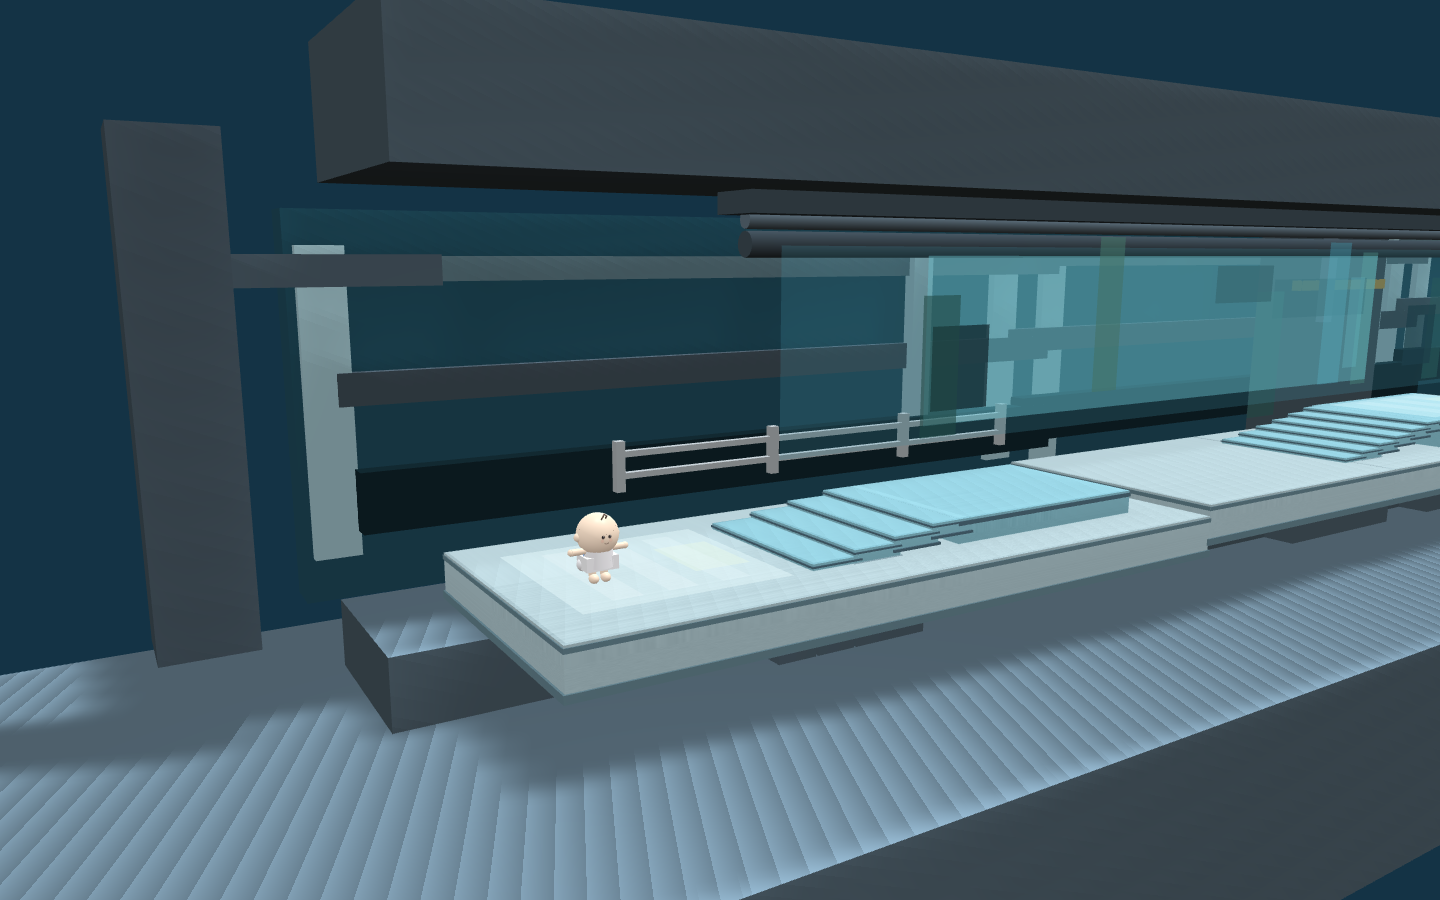
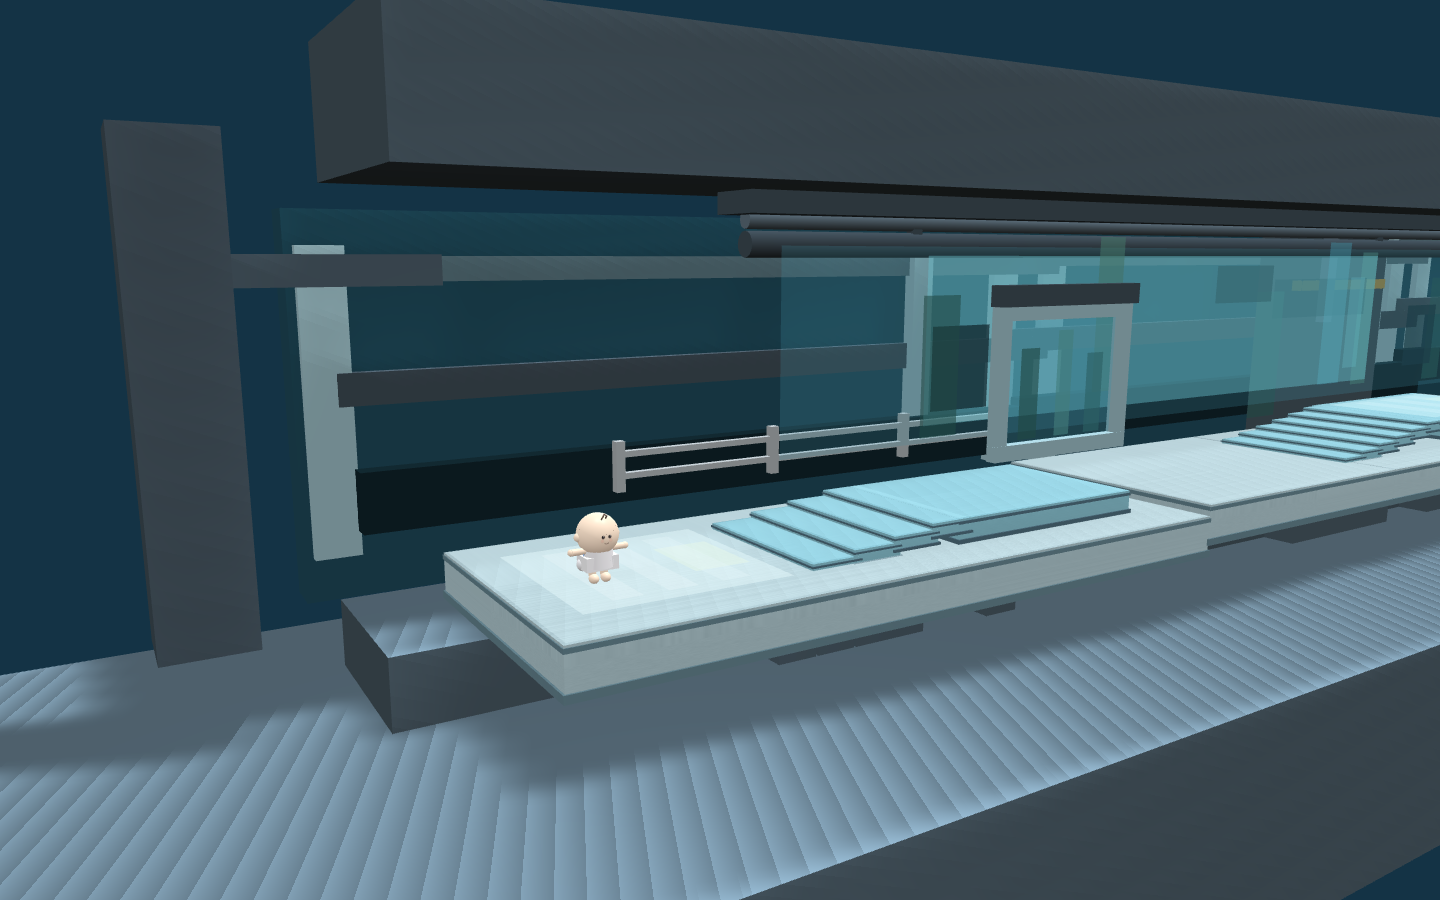
BEAD 5.05S: Level 5 visual hierarchy pass — spawn slice readability
- Thin glass platforms: E1 compare strip h→0.40, E2 kiosk bypasses h→0.42
  so glass surfaces read as lightweight overlays vs solid public-floor slabs
- Replace kelp-tank text sign with aquarium viewing-window landmark at x=-7.8:
  glassFrame-bordered porthole (4.62×3.72), tankGlow water fill (α=0.34),
  three kelp strands (α=0.62), pipeDark cap — clear aquarium identity from spawn
- Add pipe-bracket boxes at x=-14 and x=3 to unify overhead pipe runs
  into one readable industrial cluster

Invariants: traversal topology unchanged; render policies unchanged;
no adjacent systems (oxygen, combat, HUD) touched.

Proof screenshots updated in docs/proof and docs/screenshots.

diff --git a/src/web3d/world/buildWorld5AquariumDrift.js b/src/web3d/world/buildWorld5AquariumDrift.js
@@ -464,13 +464,13 @@ function buildLayout() {
   const add = (def) => surfaces.push(def);
 
   const ground = deckDef('aquarium_drift_ground_start', -24, -12, 0.55, { encounterId: 'L5-E1' });
-  add(deckDef('e1_compare_strip', -17.0, -13.0, 0.95, { depth: 2.8, kind: 'glass', encounterId: 'L5-E1' }));
+  add(deckDef('e1_compare_strip', -17.0, -13.0, 0.95, { depth: 2.8, kind: 'glass', height: 0.40, encounterId: 'L5-E1' }));
   addStairRun(surfaces, 'e1_compare_steps', -19.8, -16.8, 0.55, 0.95, { depth: 2.8, kind: 'glass', encounterId: 'L5-E1' });
   add(deckDef('e1_exit_apron', -12, -6, 0.75, { encounterId: 'L5-E1' }));
 
   add(deckDef('e2_floor_lane', -6, 8, 0.75, { encounterId: 'L5-E2' }));
-  add(deckDef('e2_kiosk_bypass_a', -2.5, 2.2, 1.35, { depth: 3.0, kind: 'glass', encounterId: 'L5-E2' }));
-  add(deckDef('e2_kiosk_bypass_b', 4.4, 9.5, 1.35, { depth: 3.0, kind: 'glass', encounterId: 'L5-E2' }));
+  add(deckDef('e2_kiosk_bypass_a', -2.5, 2.2, 1.35, { depth: 3.0, kind: 'glass', height: 0.42, encounterId: 'L5-E2' }));
+  add(deckDef('e2_kiosk_bypass_b', 4.4, 9.5, 1.35, { depth: 3.0, kind: 'glass', height: 0.42, encounterId: 'L5-E2' }));
   addStairRun(surfaces, 'e2_kiosk_up', -6.2, -2.4, 0.75, 1.35, { depth: 2.8, kind: 'glass', encounterId: 'L5-E2' });
   addStairRun(surfaces, 'e2_kiosk_down', 8.2, 10.2, 1.35, 1.15, { depth: 2.8, kind: 'glass', encounterId: 'L5-E2' });
   addStairRun(surfaces, 'e2_merge_rise', 6.0, 10.0, 0.75, 1.15, { depth: 3.2, kind: 'public', encounterId: 'L5-E2' });
@@ -1433,22 +1433,77 @@ function buildSpawnSliceReadability(scene, shadowGen) {
     shadowGen,
     metadata: { encounterIds: ['L5-E1', 'L5-E2'], visualRole: 'spawn_landmark_pipe' },
   });
-  const sign = createWelcomeSign(scene, {
-    name: 'level5_spawn_kelp_tank_sign',
-    x: -6.8,
-    y: 0.0,
-    z: 4.92,
-    shadowGen,
-    textLines: ['KELP', 'TANK'],
-    width: 4.0,
-    height: 1.3,
-    postHeight: 4.0,
-    postSpread: 2.34,
-    boardColor: PROFILE.warning,
-    postColor: PROFILE.pipeDark,
-    boardName: 'level5_spawn_kelp_tank_sign',
+  // ── Aquarium viewing window — dominant spawn landmark ───────────────────
+  // A framed porthole window into the kelp tank, positioned at mid-depth
+  // so it reads clearly from spawn without competing with route geometry.
+  const winRoot = createDecorRoot(scene, 'l5_spawn_tank_win', {
+    x: -7.8,
+    y: 2.0,
+    z: 4.74,
+    metadata: { encounterIds: ['L5-E1'], visualRole: 'spawn_tank_window' },
   });
-  setRenderingGroup(sign, 2);
+  // Frame: vertical posts (left / right)
+  for (const [i, lx] of [-2.12, 2.12].entries()) {
+    createDecorBox(scene, `l5_spawn_tank_win_post_${i}`, {
+      parent: winRoot, x: lx, y: 0, z: 0,
+      w: 0.38, h: 3.72, d: 0.28,
+      rgb: PROFILE.glassFrame,
+      shadowGen,
+      metadata: { encounterIds: ['L5-E1'], visualRole: 'spawn_tank_window_frame' },
+    });
+  }
+  // Frame: horizontal bars (top / bottom)
+  for (const [i, ly] of [-1.67, 1.67].entries()) {
+    createDecorBox(scene, `l5_spawn_tank_win_bar_${i}`, {
+      parent: winRoot, x: 0, y: ly, z: 0,
+      w: 4.62, h: 0.38, d: 0.28,
+      rgb: PROFILE.glassFrame,
+      shadowGen,
+      metadata: { encounterIds: ['L5-E1'], visualRole: 'spawn_tank_window_frame' },
+    });
+  }
+  // Dark water fill inside frame (behind posts)
+  createAlphaPanel(scene, 'l5_spawn_tank_win_water', {
+    parent: winRoot, x: 0, y: 0, z: 0.04,
+    w: 3.80, h: 2.92,
+    rgb: PROFILE.tankGlow,
+    alpha: 0.34,
+    metadata: { encounterIds: ['L5-E1'], visualRole: 'spawn_tank_window_water' },
+  });
+  // Kelp strands inside window
+  for (const [i, s] of [
+    { x: -1.1, y: -0.3, w: 0.62, h: 2.2 },
+    { x:  0.1, y: -0.1, w: 0.52, h: 2.6 },
+    { x:  1.2, y: -0.4, w: 0.58, h: 2.0 },
+  ].entries()) {
+    createAlphaPanel(scene, `l5_spawn_tank_win_kelp_${i}`, {
+      parent: winRoot, x: s.x, y: s.y, z: 0.02,
+      w: s.w, h: s.h,
+      rgb: i % 2 === 0 ? PROFILE.kelpDark : PROFILE.kelpLight,
+      alpha: 0.62,
+      metadata: { encounterIds: ['L5-E1'], visualRole: 'spawn_tank_window_kelp' },
+    });
+  }
+  // Top cap — service/machine read, overhangs frame
+  createDecorBox(scene, 'l5_spawn_tank_win_cap', {
+    parent: winRoot, x: 0, y: 2.06, z: -0.06,
+    w: 4.72, h: 0.50, d: 0.42,
+    rgb: PROFILE.pipeDark,
+    shadowGen,
+    metadata: { encounterIds: ['L5-E1'], visualRole: 'spawn_tank_window_cap' },
+  });
+  setRenderingGroup(winRoot, 2);
+
+  // ── Pipe run brackets — unify the two overhead pipe cylinders ───────────
+  for (const [i, bx] of [-14, 3].entries()) {
+    createDecorBox(scene, `l5_spawn_pipe_bracket_${i}`, {
+      x: bx, y: 5.40, z: 3.26,
+      w: 0.22, h: 0.50, d: 0.22,
+      rgb: PROFILE.pipeDark,
+      shadowGen,
+      metadata: { encounterIds: ['L5-E1', 'L5-E2'], visualRole: 'spawn_pipe_bracket' },
+    });
+  }
 }
 
 function addSupportColumns(scene, shadowGen, def) {
